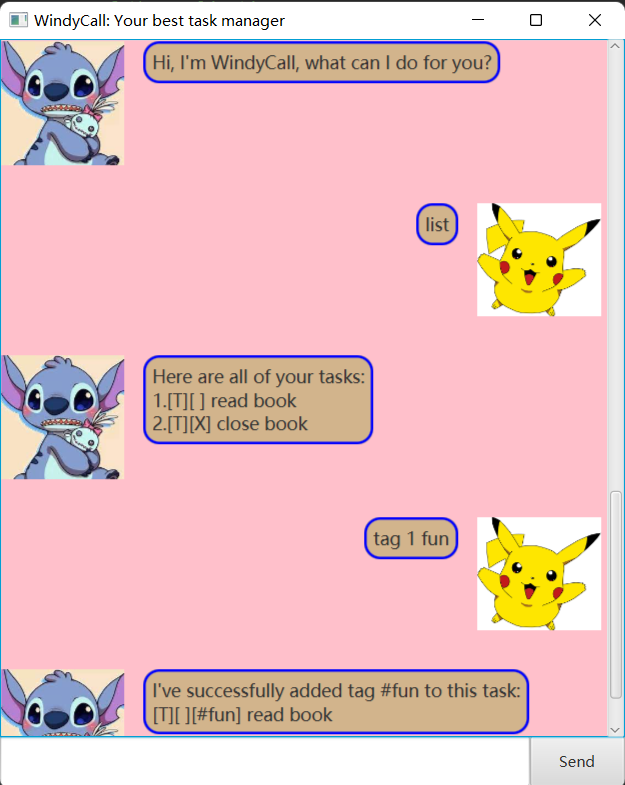
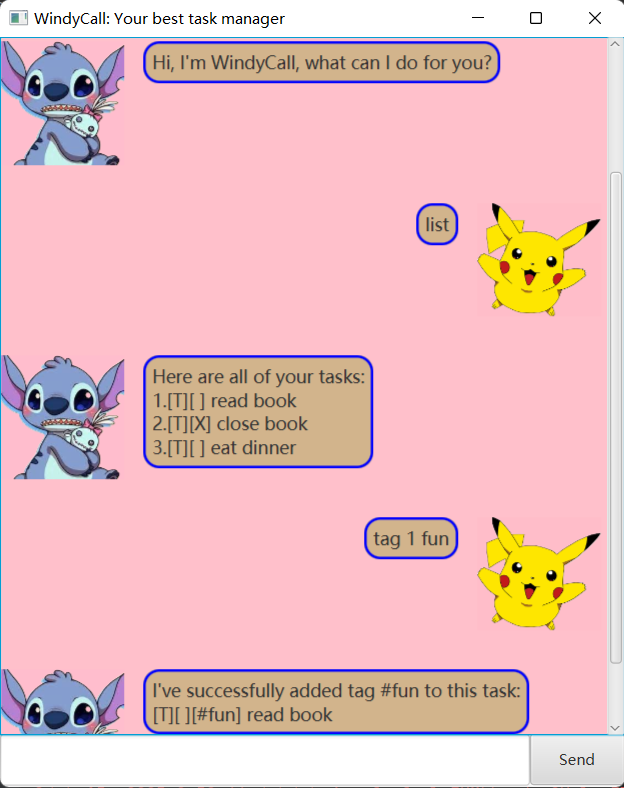
Reupload Ui.png and refactor images.

diff --git a/src/main/java/gui/MainWindow.java b/src/main/java/gui/MainWindow.java
@@ -22,8 +22,8 @@ public class MainWindow extends AnchorPane {
 
     private Duke duke;
 
-    private Image userImage = new Image(this.getClass().getResourceAsStream("/images/pikachu.png"));
-    private Image dukeImage = new Image(this.getClass().getResourceAsStream("/images/download.jfif"));
+    private Image userImage = new Image(this.getClass().getResourceAsStream("/images/pikachu_refactor.png"));
+    private Image dukeImage = new Image(this.getClass().getResourceAsStream("/images/download.png"));
 
     @FXML
     public void initialize() {
